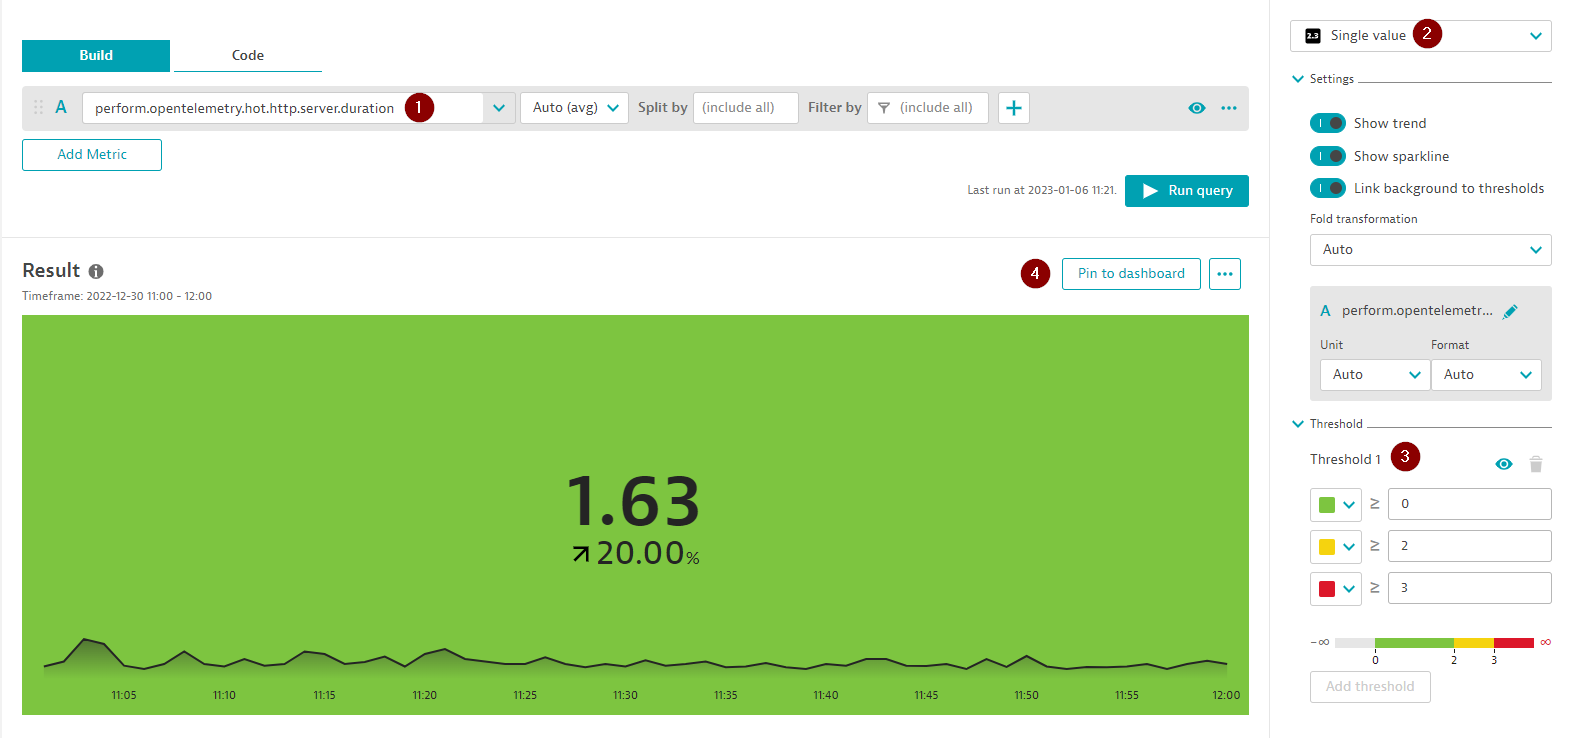
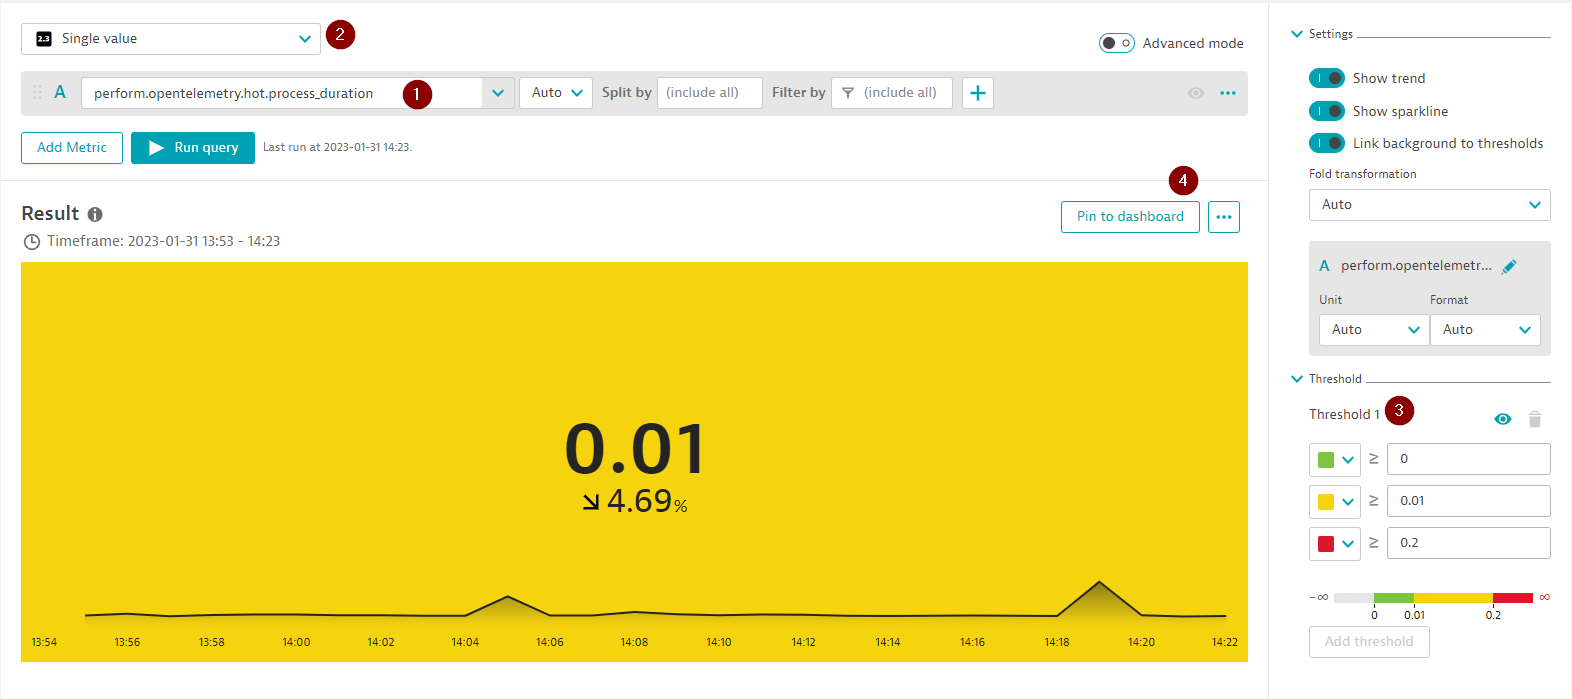
Update OTLP Python Metrics sections and images

diff --git a/Automate-Integrate-OpenTelemetry/content/03_python_metrics/02_metric_browser/index.md b/Automate-Integrate-OpenTelemetry/content/03_python_metrics/02_metric_browser/index.md
@@ -44,13 +44,13 @@ Let's create a heatmap with the following settings:
 
 **Your Task:** Add a Single Value tile to the new dashboard
 
-1. Select the `perform.opentelemetry.hot.http.server.duration` metric
+1. Select the `perform.opentelemetry.hot.process_duration` metric
 1. Choose `Single value` as the chart type
 1. Set your thresholds as:
    * Green > 0
    * Yellow > 2
    * Red > 3 
-1. Pin to the same dashboard with the title `Server Duration`
+1. Pin to the same dashboard with the title `Process Duration`
 
 ![Settings](../../../assets/images/03-02-single_value.png)
 
@@ -58,317 +58,5 @@ Let's create a heatmap with the following settings:
   <summary>Solution</summary>
   
   ![Settings](../../../assets/images/03-02-singleValue_solution.png)
-
-</details>
-
----
-
-### 📌 Bonus Task
-
-<details>
-  <summary>Expand should you choose to accept...</summary>
-
-Add another tile, a Honeycomb, with the metric `perform.opentelemetry.hot.cpu_usage` showing the labels and setting thresholds. Rename the metric to `CPU Usage` and pin this to the dashboard with the title `CPU Usage` and rename the dashboard to `Python App Overview`. 
-
-Your dashboard should look similar to this:
-
-![Settings](../../../assets/images/03-02-dashboard.png)
-
-</details>
-
----
-
-<details>
-    <summary><b>Dashboard JSON</b></summary>
-    
-```json
-{
-  "metadata": {
-    "configurationVersions": [
-      6
-    ],
-    "clusterVersion": "1.257.164.20221230-102519"
-  },
-  "id": "581ce315-9bb6-4442-8836-4b48179bebfc",
-  "dashboardMetadata": {
-    "name": "Python App Overview",
-    "shared": false,
-    "popularity": 3,
-    "hasConsistentColors": false
-  },
-  "tiles": [
-    {
-      "name": "Request Count",
-      "tileType": "DATA_EXPLORER",
-      "configured": true,
-      "bounds": {
-        "top": 0,
-        "left": 0,
-        "width": 722,
-        "height": 342
-      },
-      "tileFilter": {},
-      "customName": "Data explorer results",
-      "queries": [
-        {
-          "id": "A",
-          "metric": "perform.opentelemetry.hot.requests_count",
-          "timeAggregation": "DEFAULT",
-          "splitBy": [
-            "request"
-          ],
-          "enabled": true
-        }
-      ],
-      "visualConfig": {
-        "type": "HEATMAP",
-        "global": {
-          "hideLegend": true
-        },
-        "rules": [
-          {
-            "matcher": "A:",
-            "unitTransform": "auto",
-            "valueFormat": "auto",
-            "properties": {
-              "color": "PURPLE",
-              "seriesType": "LINE"
-            },
-            "seriesOverrides": []
-          }
-        ],
-        "axes": {
-          "xAxis": {
-            "visible": true
-          },
-          "yAxes": []
-        },
-        "heatmapSettings": {
-          "yAxis": "DIMENSIONS",
-          "showLabels": true
-        },
-        "thresholds": [
-          {
-            "axisTarget": "LEFT",
-            "rules": [
-              {
-                "value": 0,
-                "color": "#7dc540"
-              },
-              {
-                "value": 3,
-                "color": "#f5d30f"
-              },
-              {
-                "value": 5,
-                "color": "#dc172a"
-              }
-            ],
-            "queryId": "",
-            "visible": true
-          }
-        ],
-        "tableSettings": {
-          "isThresholdBackgroundAppliedToCell": false
-        },
-        "graphChartSettings": {
-          "connectNulls": false
-        },
-        "honeycombSettings": {
-          "showHive": true,
-          "showLegend": true,
-          "showLabels": false
-        }
-      },
-      "queriesSettings": {
-        "resolution": ""
-      },
-      "metricExpressions": [
-        "resolution=null&(perform.opentelemetry.hot.requests_count:splitBy(request):sort(value(auto,descending)):limit(20)):limit(100):names"
-      ]
-    },
-    {
-      "name": "Server Duration",
-      "tileType": "DATA_EXPLORER",
-      "configured": true,
-      "bounds": {
-        "top": 0,
-        "left": 722,
-        "width": 342,
-        "height": 342
-      },
-      "tileFilter": {},
-      "customName": "Data explorer results",
-      "queries": [
-        {
-          "id": "A",
-          "metric": "perform.opentelemetry.hot.http.server.duration",
-          "timeAggregation": "DEFAULT",
-          "splitBy": [],
-          "enabled": true
-        }
-      ],
-      "visualConfig": {
-        "type": "SINGLE_VALUE",
-        "global": {
-          "hideLegend": false
-        },
-        "rules": [
-          {
-            "matcher": "A:",
-            "properties": {
-              "color": "DEFAULT"
-            },
-            "seriesOverrides": []
-          }
-        ],
-        "axes": {
-          "xAxis": {
-            "visible": true
-          },
-          "yAxes": []
-        },
-        "heatmapSettings": {
-          "yAxis": "VALUE",
-          "showLabels": false
-        },
-        "singleValueSettings": {
-          "showTrend": true,
-          "showSparkLine": true,
-          "linkTileColorToThreshold": true
-        },
-        "thresholds": [
-          {
-            "axisTarget": "LEFT",
-            "rules": [
-              {
-                "value": 0,
-                "color": "#7dc540"
-              },
-              {
-                "value": 2,
-                "color": "#f5d30f"
-              },
-              {
-                "value": 3,
-                "color": "#dc172a"
-              }
-            ],
-            "queryId": "",
-            "visible": true
-          }
-        ],
-        "tableSettings": {
-          "isThresholdBackgroundAppliedToCell": false
-        },
-        "graphChartSettings": {
-          "connectNulls": false
-        },
-        "honeycombSettings": {
-          "showHive": true,
-          "showLegend": true,
-          "showLabels": false
-        }
-      },
-      "queriesSettings": {
-        "resolution": ""
-      },
-      "metricExpressions": [
-        "resolution=Inf&(perform.opentelemetry.hot.http.server.duration:splitBy():sort(value(auto,descending)):limit(20)):limit(100):names",
-        "resolution=null&(perform.opentelemetry.hot.http.server.duration:splitBy():sort(value(auto,descending)):limit(20))"
-      ]
-    },
-    {
-      "name": "CPU Usage",
-      "tileType": "DATA_EXPLORER",
-      "configured": true,
-      "bounds": {
-        "top": 0,
-        "left": 1064,
-        "width": 304,
-        "height": 304
-      },
-      "tileFilter": {},
-      "customName": "Data explorer results",
-      "queries": [
-        {
-          "id": "A",
-          "metric": "perform.opentelemetry.hot.cpu_usage",
-          "timeAggregation": "DEFAULT",
-          "splitBy": [],
-          "enabled": true
-        }
-      ],
-      "visualConfig": {
-        "type": "HONEYCOMB",
-        "global": {
-          "hideLegend": false
-        },
-        "rules": [
-          {
-            "matcher": "A:",
-            "unitTransform": "auto",
-            "valueFormat": "auto",
-            "properties": {
-              "color": "DEFAULT",
-              "seriesType": "LINE",
-              "alias": "CPU Usage"
-            },
-            "seriesOverrides": []
-          }
-        ],
-        "axes": {
-          "xAxis": {
-            "displayName": "",
-            "visible": true
-          },
-          "yAxes": []
-        },
-        "heatmapSettings": {
-          "yAxis": "VALUE"
-        },
-        "thresholds": [
-          {
-            "axisTarget": "LEFT",
-            "rules": [
-              {
-                "value": 0,
-                "color": "#7dc540"
-              },
-              {
-                "value": 90,
-                "color": "#f5d30f"
-              },
-              {
-                "value": 95,
-                "color": "#dc172a"
-              }
-            ],
-            "queryId": "",
-            "visible": true
-          }
-        ],
-        "tableSettings": {
-          "isThresholdBackgroundAppliedToCell": false
-        },
-        "graphChartSettings": {
-          "connectNulls": false
-        },
-        "honeycombSettings": {
-          "showHive": true,
-          "showLegend": true,
-          "showLabels": true
-        }
-      },
-      "queriesSettings": {
-        "resolution": ""
-      },
-      "metricExpressions": [
-        "resolution=Inf&(perform.opentelemetry.hot.cpu_usage:splitBy():sort(value(auto,descending)):limit(20)):names"
-      ]
-    }
-  ]
-}
-```
 
 </details>

diff --git a/Automate-Integrate-OpenTelemetry/content/03_python_metrics/03_topology/index.md b/Automate-Integrate-OpenTelemetry/content/03_python_metrics/03_topology/index.md
@@ -11,7 +11,7 @@ Here we explore how to connect our metrics to the Dynatrace Topology.
 
 #### 📌 Follow along
 
-#### 1.  Go to `Settings >  Toplogy model > Generic types > Add type definition` and start by completeing the following feilds and click on `Add extraction rule`:
+#### 1.  Go to `Settings >  Toplogy model > Generic types > Add type definition` and fill out the feilds as follows:
 
 | Field | Value |
 | ------ | ------------- |
@@ -21,7 +21,7 @@ Here we explore how to connect our metrics to the Dynatrace Topology.
 
    ![Topology 1](../../../assets/images/03-03-topology_1.png)
 
-#### 2. Fill out the following fields and click on `Add Source`:
+#### 2. Click on `Add extraction rule` and fill out the following fields:
 
 | Field | Value |
 | ------ | ------------- |
@@ -31,7 +31,7 @@ Here we explore how to connect our metrics to the Dynatrace Topology.
 
    ![Topology 2](../../../assets/images/03-03-topology_2.png)
 
-#### 3. Fill out the following values and click on `Add dimensions filter`
+#### 3.  Click on `Add Source` and fill out the following fields:
 
 | Field | Value |
 | ------ | ------------- |
@@ -40,7 +40,7 @@ Here we explore how to connect our metrics to the Dynatrace Topology.
 
    ![Topology 3](../../../assets/images/03-03-topology_3.png)
 
-#### 4. Finally, fill out the following values and click on `Save Changes`:
+#### 4. Finally, click on `Add dimensions filter` and fill out the following fields and click on `Save Changes`:
 
 | Field | Value |
 | ------ | ------------- |

diff --git a/Automate-Integrate-OpenTelemetry/content/03_python_metrics/01_metric_creation/index.md b/Automate-Integrate-OpenTelemetry/content/03_python_metrics/01_metric_creation/index.md
@@ -217,9 +217,9 @@ def calc():
 
 ### 📌 Task
 
-**Your Task:** Send a measurment to your histogram instrument
+**Your Task:** Send a measurement to your histogram instrument
 
-Open `pysrvc/utils.py` and between line `29-30` add a line to populate your measurment for the histogram passing the variable `duration` as the metric and add an attribute with the key `"number"` and variable `n` as the value. 
+Open `pysrvc/utils.py` and navigate the `process` function on line `24` and add a line after `duration = (datetime.now().timestamp() - start.timestamp())*1000` to populate your measurement for the histogram passing the variable `duration` as the metric and add an attribute with the key `"number"` and variable `n` as the value. 
 - change the dictionary reference to the name of the new histogram instrument `"process_duration"`
 
 >💡 **Hint**
